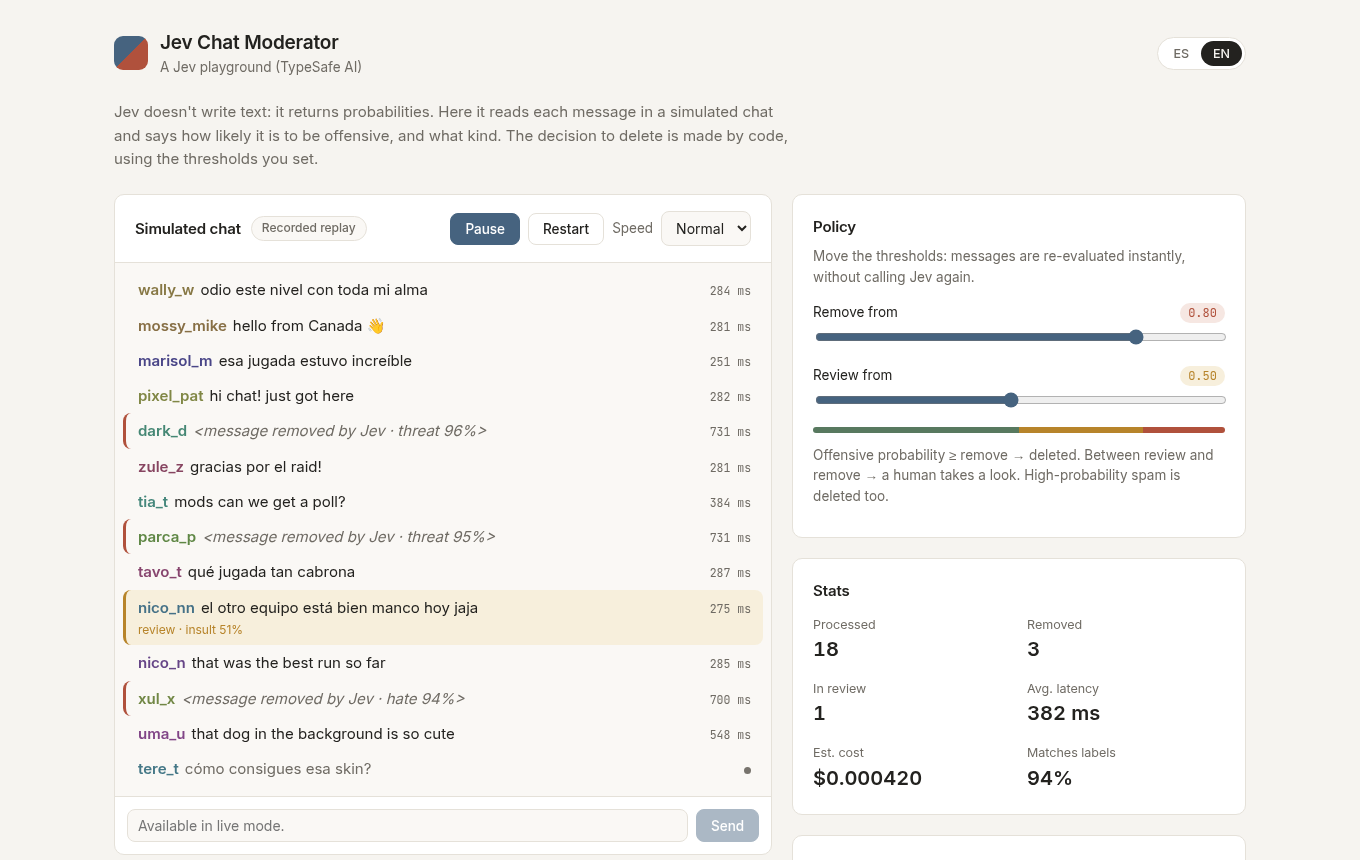
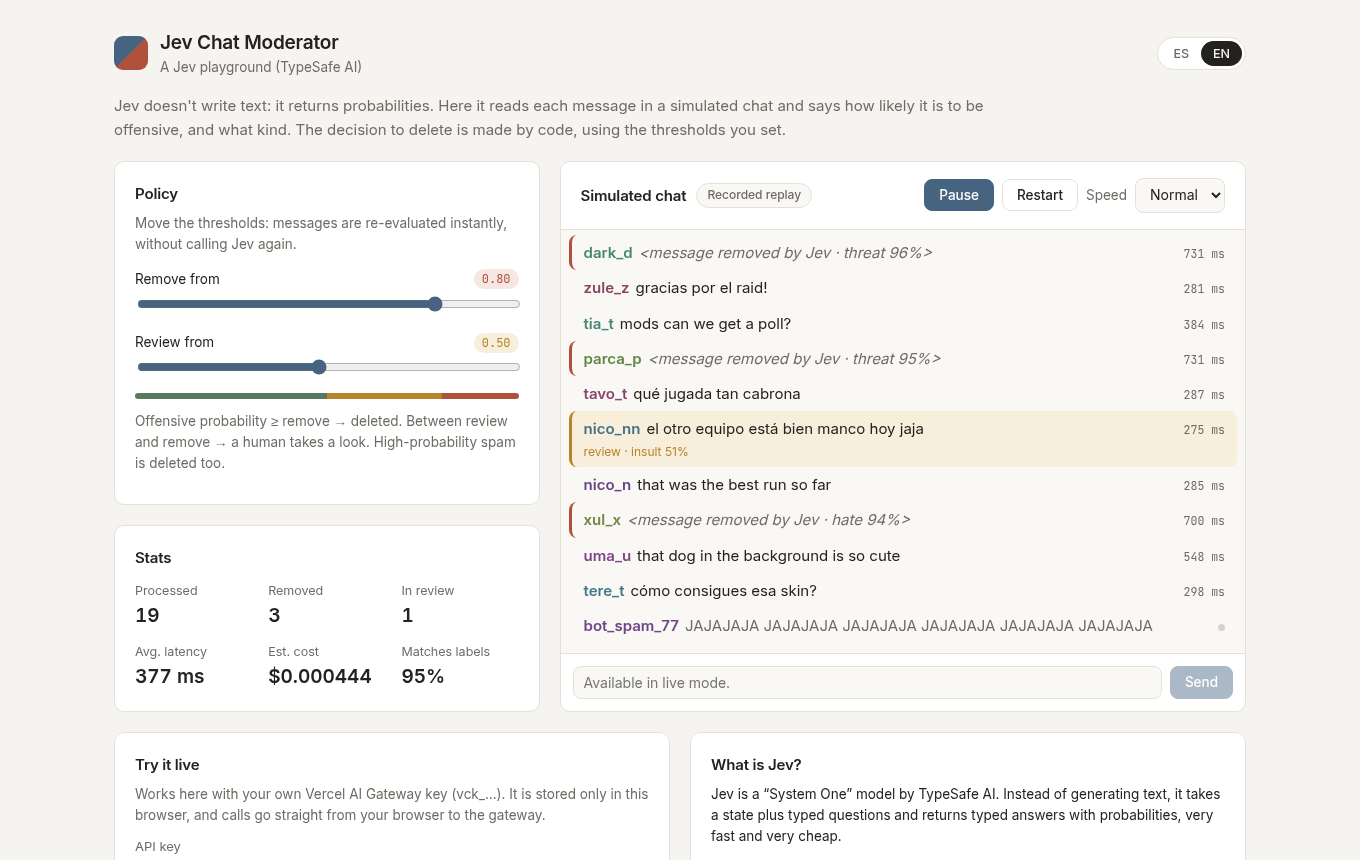
feat: controls-left / chat-right layout that fits one screen; secondary cards below

Changed region(s): [[0.0926, 0.1209, 0.9265, 0.9977], [0.8338, 0.7558, 0.9265, 0.8163], [0.8647, 0.6047, 0.8956, 0.6953]]

diff --git a/src/styles/global.css b/src/styles/global.css
@@ -147,21 +147,31 @@ pre {
 }
 
 .intro {
-  max-width: 72ch;
-  margin: 22px 0 24px;
+  max-width: 96ch;
+  margin: 16px 0 20px;
   color: var(--muted);
 }
 
 /* Layout */
+/* Top row: controls on the left, chat on the right, both as tall as the controls. */
 .layout {
   display: grid;
-  grid-template-columns: minmax(0, 1.45fr) minmax(0, 1fr);
+  grid-template-columns: minmax(0, 0.62fr) minmax(0, 1fr);
   gap: 20px;
-  align-items: start;
+  align-items: stretch;
 }
-.side {
+.panel {
   display: grid;
   gap: 20px;
+  align-content: start;
+}
+/* Secondary content: full width below the fold. */
+.lower {
+  display: grid;
+  grid-template-columns: minmax(0, 1fr) minmax(0, 1fr);
+  gap: 20px;
+  margin-top: 20px;
+  align-items: start;
 }
 .card {
   background: var(--surface);
@@ -285,7 +295,9 @@ select {
   list-style: none;
   margin: 0;
   padding: 10px 8px;
-  height: min(62vh, 620px);
+  /* Grows to fill the row the controls define, never pushes the row taller. */
+  flex: 1 1 0;
+  min-height: 360px;
   overflow-y: auto;
   scroll-behavior: smooth;
   background: var(--surface-2);
@@ -443,8 +455,8 @@ select {
 /* Stats */
 .stats {
   display: grid;
-  grid-template-columns: repeat(2, minmax(0, 1fr));
-  gap: 14px 16px;
+  grid-template-columns: repeat(3, minmax(0, 1fr));
+  gap: 12px 16px;
   margin: 12px 0 0;
 }
 .stats dt {
@@ -453,7 +465,7 @@ select {
 }
 .stats dd {
   margin: 0;
-  font-size: 20px;
+  font-size: 19px;
   font-weight: 600;
   font-variant-numeric: tabular-nums;
 }
@@ -575,10 +587,22 @@ select {
   body {
     padding: 20px 16px 32px;
   }
-  .layout {
+  .layout,
+  .lower {
     grid-template-columns: minmax(0, 1fr);
   }
+  /* On phones the chat leads; the policy follows right under it. */
+  .chat-card {
+    order: -1;
+  }
   .chat {
+    flex: none;
     height: 56vh;
+  }
+}
+
+@media (max-width: 420px) {
+  .stats {
+    grid-template-columns: repeat(2, minmax(0, 1fr));
   }
 }

diff --git a/src/client/app.ts b/src/client/app.ts
@@ -324,6 +324,8 @@ function startLive(): void {
   live = { apiKey, provider, controller: new AbortController() };
   setModeUi();
   if (!playing) setPlaying(true);
+  // The live controls sit below the chat; bring the chat back into view.
+  $("chat-card").scrollIntoView({ behavior: "smooth", block: "start" });
 }
 
 function stopLive(): void {
